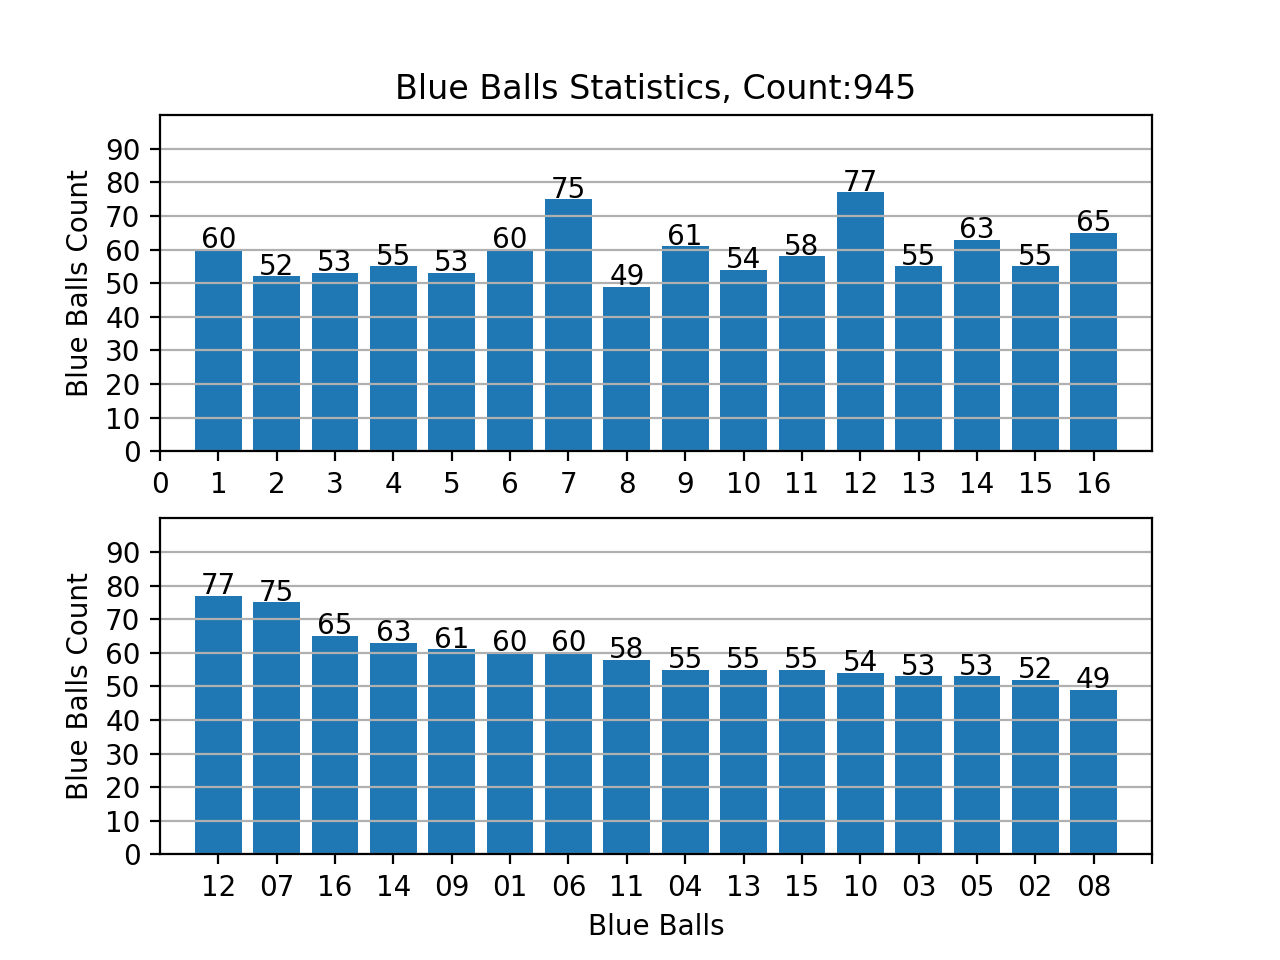
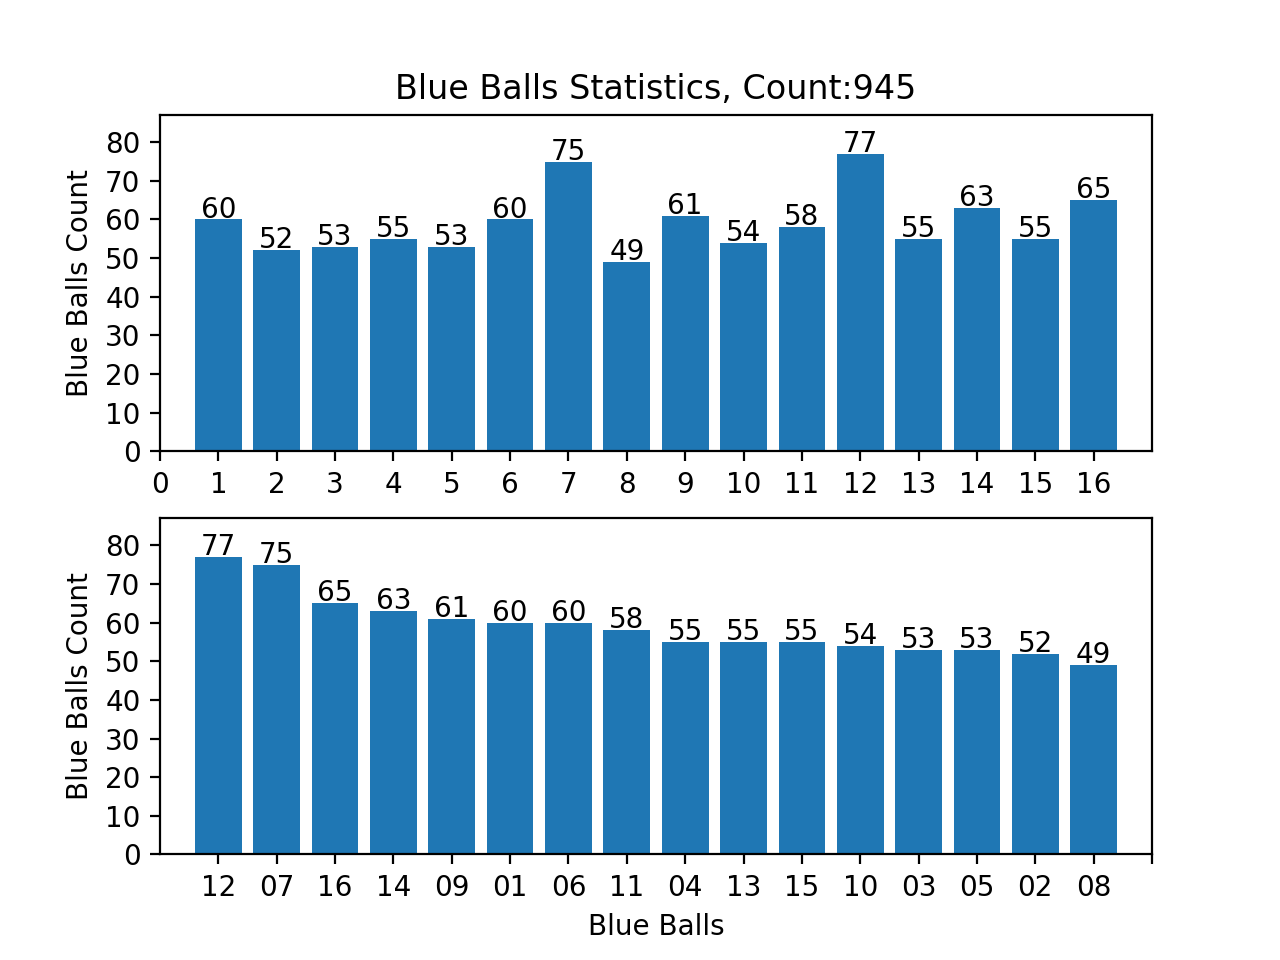
蓝球红球统计数据生成排序图

diff --git a/DataShow/DataVisual.py b/DataShow/DataVisual.py
@@ -25,19 +25,21 @@ def blue_statistics_visual():
     for ball in blue_ball:
         show_ball.append(int(ball))
 
+    large_count = max(blue_statistics)
+
     pyplot.subplot(2, 1, 1)
     # pyplot.xlabel(r"Blue Balls")
     pyplot.ylabel(r"Blue Balls Count")
     pyplot.title(r"Blue Balls Statistics, Count:{0}".format(sum(blue_statistics)))
     pyplot.xlim((0, 17))
-    pyplot.ylim((0, 100))
+    pyplot.ylim((0, large_count + 10))
     pyplot.xticks(range(0, 17, 1))
-    pyplot.yticks(range(0, 100, 10))
+    pyplot.yticks(range(0, large_count + 10, 10))
 
     pyplot.bar(show_ball, blue_statistics)
     for x, y in zip(show_ball, blue_statistics):
         pyplot.text(x, y+0.5, y, ha='center')
-    pyplot.grid(axis="y")
+    # pyplot.grid(axis="y")
     # pyplot.savefig(r"{0}\..\image\BlueBallsStatistics.png".format(os.getcwd()), dpi=200)
     # pyplot.show()
 
@@ -49,21 +51,19 @@ def blue_statistics_visual():
     for key, value in sorted(blue_balls_temp.items(), key=lambda item: item[1], reverse=True):
         blue_balls_sort.append(key)
         blue_statistics_sort.append(value)
-    print(blue_balls_sort)
-    print(blue_statistics_sort)
-
+ 
     pyplot.subplot(2, 1, 2)
     pyplot.xlabel(r"Blue Balls")
     pyplot.ylabel(r"Blue Balls Count")
     # pyplot.title(r"Blue Balls Statistics, Count:{0}".format(sum(blue_statistics_sort)))
     pyplot.xlim((-1, 16))
-    pyplot.ylim((0, 100))
+    pyplot.ylim((0, large_count + 10))
     pyplot.xticks(range(0, 17, 1))
-    pyplot.yticks(range(0, 100, 10))
+    pyplot.yticks(range(0, large_count + 10, 10))
     pyplot.bar(blue_balls_sort, blue_statistics_sort)
     for x, y in zip(blue_balls_sort, blue_statistics_sort):
-        pyplot.text(x, y+0.5, y, ha='center')
-    pyplot.grid(axis="y")
+        pyplot.text(x, y + 0.5, y, ha='center')
+    # pyplot.grid(axis="y")
     pyplot.savefig(r"{0}\..\image\BlueBallsStatistics.png".format(os.getcwd()), dpi=200)
 
     pyplot.show()
@@ -71,19 +71,46 @@ def blue_statistics_visual():
 
 def red_statistics_visual():
     red_balls, red_statistics = DataHandle.red_statistics()
-    pyplot.figure(figsize=(11, 7))
-    pyplot.xlabel(r"red Balls")
+    large_count = max(red_statistics)
+
+    pyplot.figure(figsize=(10, 7))
+    pyplot.subplot(2, 1, 1)
+    # pyplot.xlabel(r"red Balls")
     pyplot.ylabel(r"Red Balls Count")
     pyplot.title(r"Red Balls Statistics, Count:{0}".format(sum(red_statistics)))
     pyplot.xlim((0, 34))
-    pyplot.ylim((0, 220))
+    pyplot.ylim((0, large_count + 20))
     pyplot.xticks(range(0, 34, 1))
-    pyplot.yticks(range(0, 220, 10))
+    pyplot.yticks(range(0, large_count + 20, 50))
 
     pyplot.bar(red_balls, red_statistics, facecolor='#f72422', edgecolor='white')
     for x, y in zip(red_balls, red_statistics):
-        pyplot.text(x, y + 0.5, y, ha='center')
-    pyplot.grid(axis="y")
+        pyplot.text(x, y + 0.5, y, ha='center', fontsize=7)
+    # pyplot.grid(axis="y")
+    # pyplot.savefig(r"{0}\..\image\RedBallsStatistics.png".format(os.getcwd()), dpi=300)
+    # pyplot.show()
+
+    red_ball_sort = []
+    red_statistics_sort = []
+    red_balls_temp = {}
+    for key, value in zip(red_balls, red_statistics):
+        red_balls_temp[str(key)] = value
+    for key, value in sorted(red_balls_temp.items(), key=lambda item: item[1], reverse=True):
+        red_ball_sort.append(str(key))
+        red_statistics_sort.append(value)
+
+    pyplot.subplot(2, 1, 2)
+    pyplot.xlabel(r"red Balls")
+    pyplot.ylabel(r"Red Balls Count")
+    # pyplot.title(r"Red Balls Statistics, Count:{0}".format(sum(red_statistics)))
+    pyplot.xlim((-1, 33))
+    pyplot.ylim((0, large_count + 20))
+    pyplot.xticks(range(0, 34, 1))
+    pyplot.yticks(range(0, large_count + 20, 50))
+    pyplot.bar(red_ball_sort, red_statistics_sort, facecolor='#f72422', edgecolor='white')
+    for x, y in zip(red_ball_sort, red_statistics_sort):
+        pyplot.text(x, y + 0.5, y, ha='center', fontsize=7)
+    # pyplot.grid(axis="y")
     pyplot.savefig(r"{0}\..\image\RedBallsStatistics.png".format(os.getcwd()), dpi=300)
     pyplot.show()
 
@@ -109,4 +136,4 @@ def blue_visual():
 if __name__ == "__main__":
     # blue_visual()
     blue_statistics_visual()
-    # red_statistics_visual()
+    red_statistics_visual()

diff --git a/DataShow/DataHandle.py b/DataShow/DataHandle.py
@@ -27,8 +27,8 @@ def red_statistics():
         red_balls_int.append(int(key))
         red_balls_statistics.append(list(group).__len__())
 
-    for i in range(1, 34):
-        print(red_balls_summary.count(i))
+    # for i in range(1, 34):
+    #     print(red_balls_summary.count(i))
     return red_balls_int, red_balls_statistics
 
 
